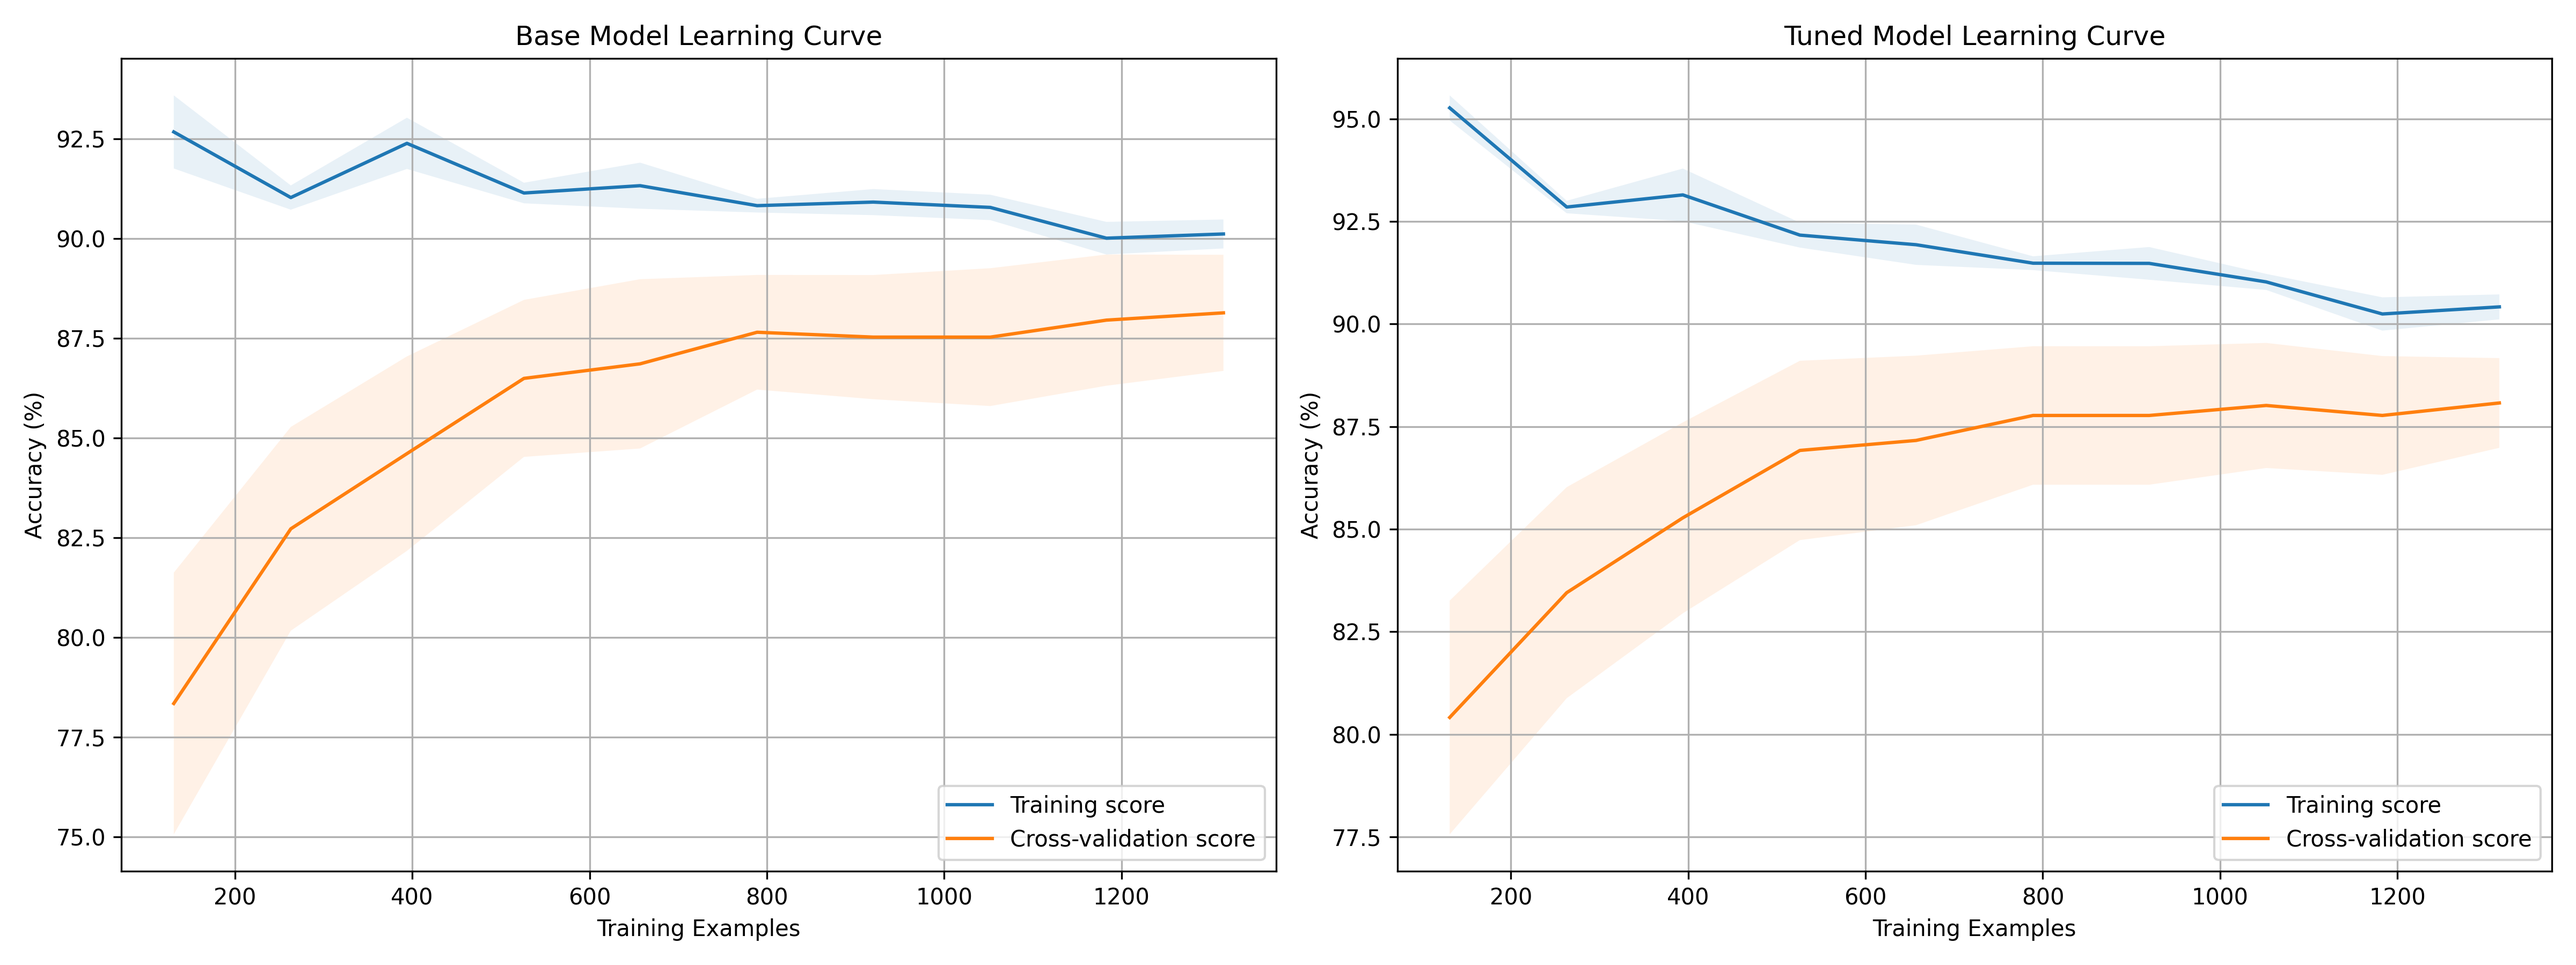
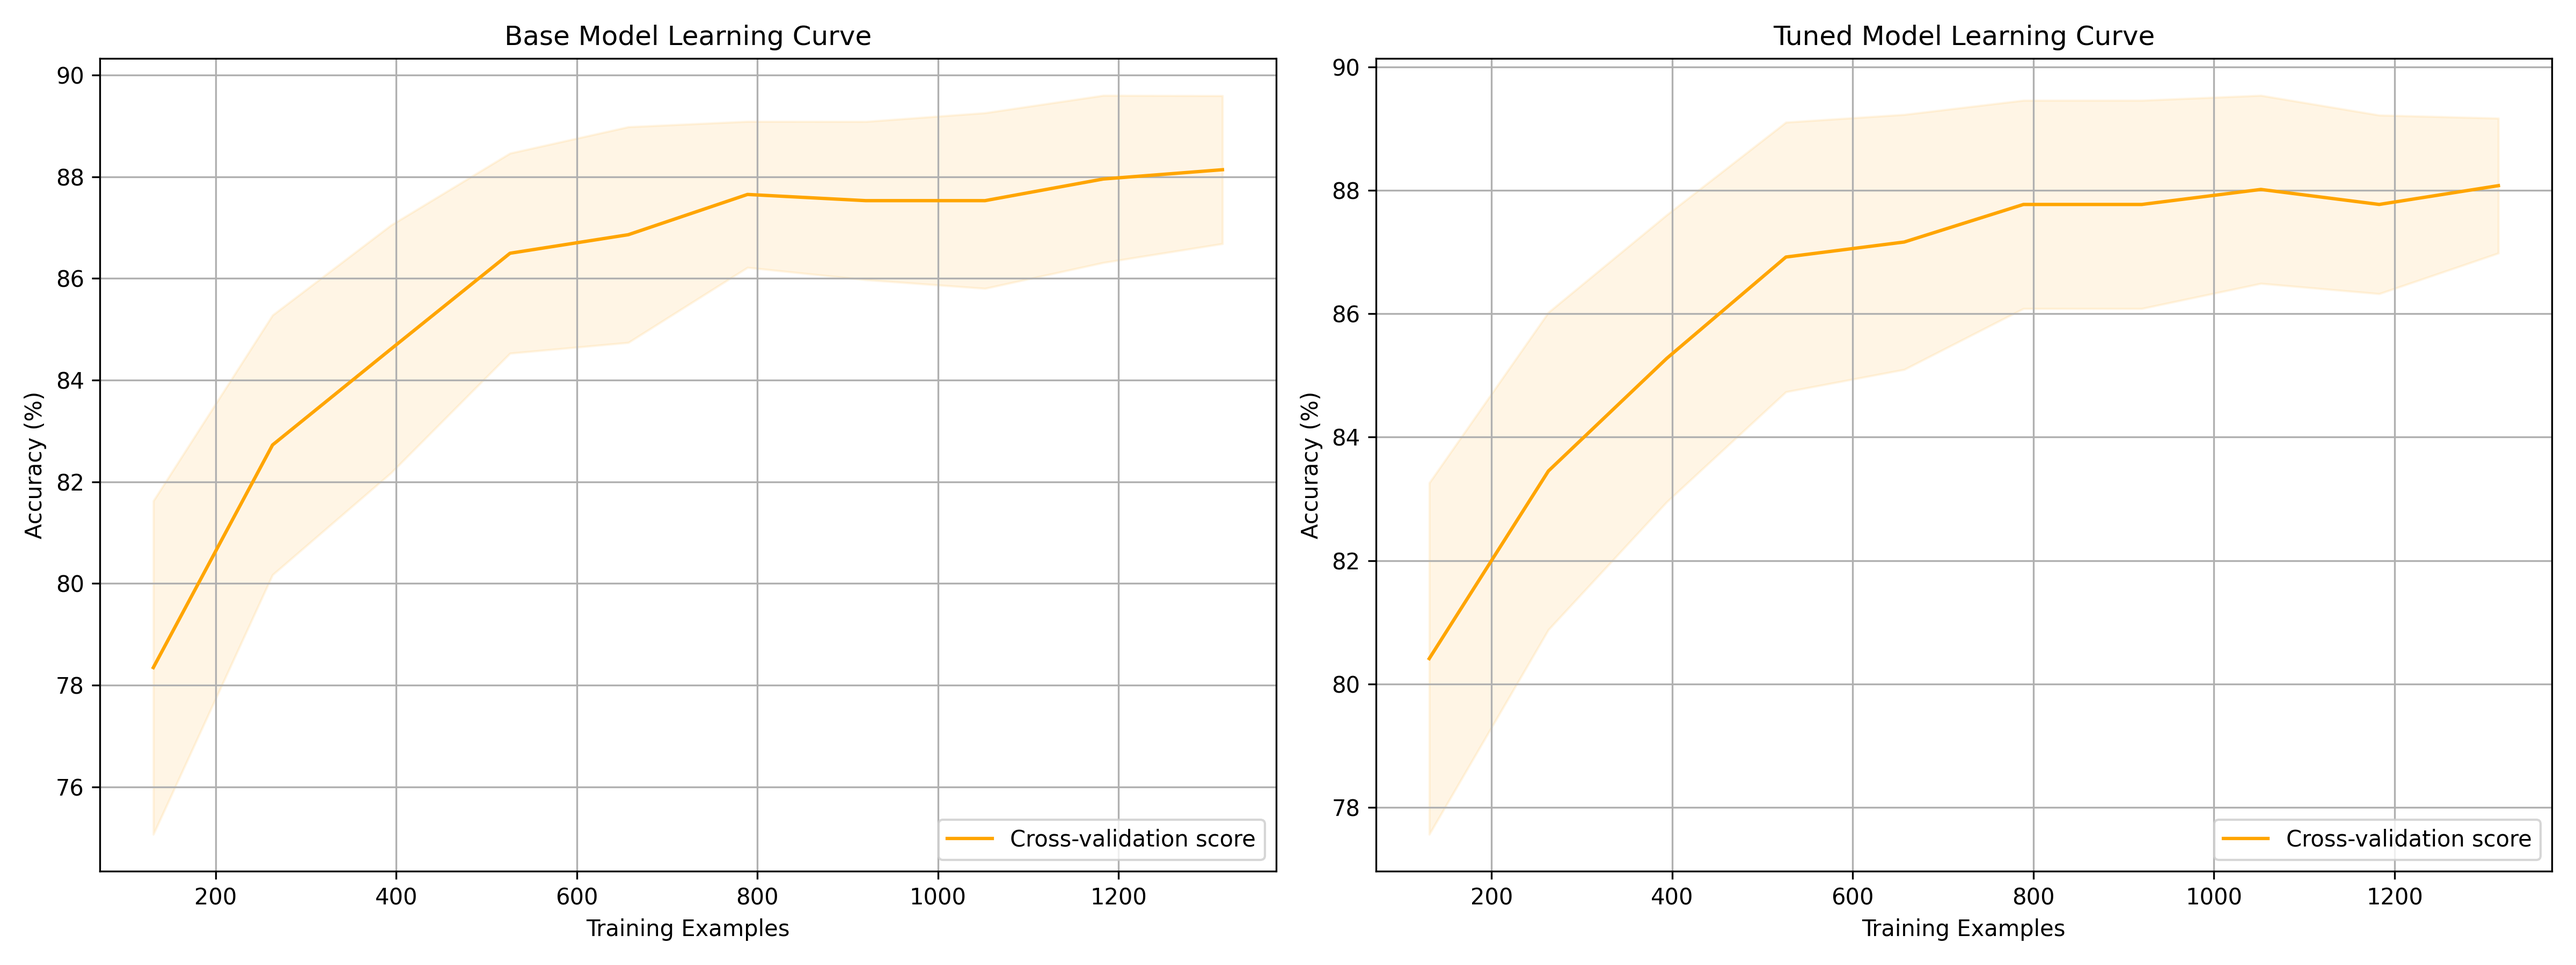
last graph

diff --git a/FoodPredictor/naive_bayes/generate_nb_statistics.py b/FoodPredictor/naive_bayes/generate_nb_statistics.py
@@ -106,15 +106,12 @@ def plot_learning_curves(X, y, base_params, tuned_params):
         cv=5, scoring='accuracy', n_jobs=-1
     )
     
-    train_mean = np.mean(train_scores, axis=1) * 100
-    train_std = np.std(train_scores, axis=1) * 100
+    # Only plot validation scores (cross-validation score)
     val_mean = np.mean(val_scores, axis=1) * 100
     val_std = np.std(val_scores, axis=1) * 100
     
-    axes[0].plot(train_sizes, train_mean, label='Training score')
-    axes[0].fill_between(train_sizes, train_mean - train_std, train_mean + train_std, alpha=0.1)
-    axes[0].plot(train_sizes, val_mean, label='Cross-validation score')
-    axes[0].fill_between(train_sizes, val_mean - val_std, val_mean + val_std, alpha=0.1)
+    axes[0].plot(train_sizes, val_mean, 'orange', label='Cross-validation score')
+    axes[0].fill_between(train_sizes, val_mean - val_std, val_mean + val_std, alpha=0.1, color='orange')
     axes[0].set_title('Base Model Learning Curve')
     axes[0].set_xlabel('Training Examples')
     axes[0].set_ylabel('Accuracy (%)')
@@ -127,15 +124,12 @@ def plot_learning_curves(X, y, base_params, tuned_params):
         cv=5, scoring='accuracy', n_jobs=-1
     )
     
-    train_mean = np.mean(train_scores, axis=1) * 100
-    train_std = np.std(train_scores, axis=1) * 100
+    # Only plot validation scores (cross-validation score)
     val_mean = np.mean(val_scores, axis=1) * 100
     val_std = np.std(val_scores, axis=1) * 100
     
-    axes[1].plot(train_sizes, train_mean, label='Training score')
-    axes[1].fill_between(train_sizes, train_mean - train_std, train_mean + train_std, alpha=0.1)
-    axes[1].plot(train_sizes, val_mean, label='Cross-validation score')
-    axes[1].fill_between(train_sizes, val_mean - val_std, val_mean + val_std, alpha=0.1)
+    axes[1].plot(train_sizes, val_mean, 'orange', label='Cross-validation score')
+    axes[1].fill_between(train_sizes, val_mean - val_std, val_mean + val_std, alpha=0.1, color='orange')
     axes[1].set_title('Tuned Model Learning Curve')
     axes[1].set_xlabel('Training Examples')
     axes[1].set_ylabel('Accuracy (%)')
